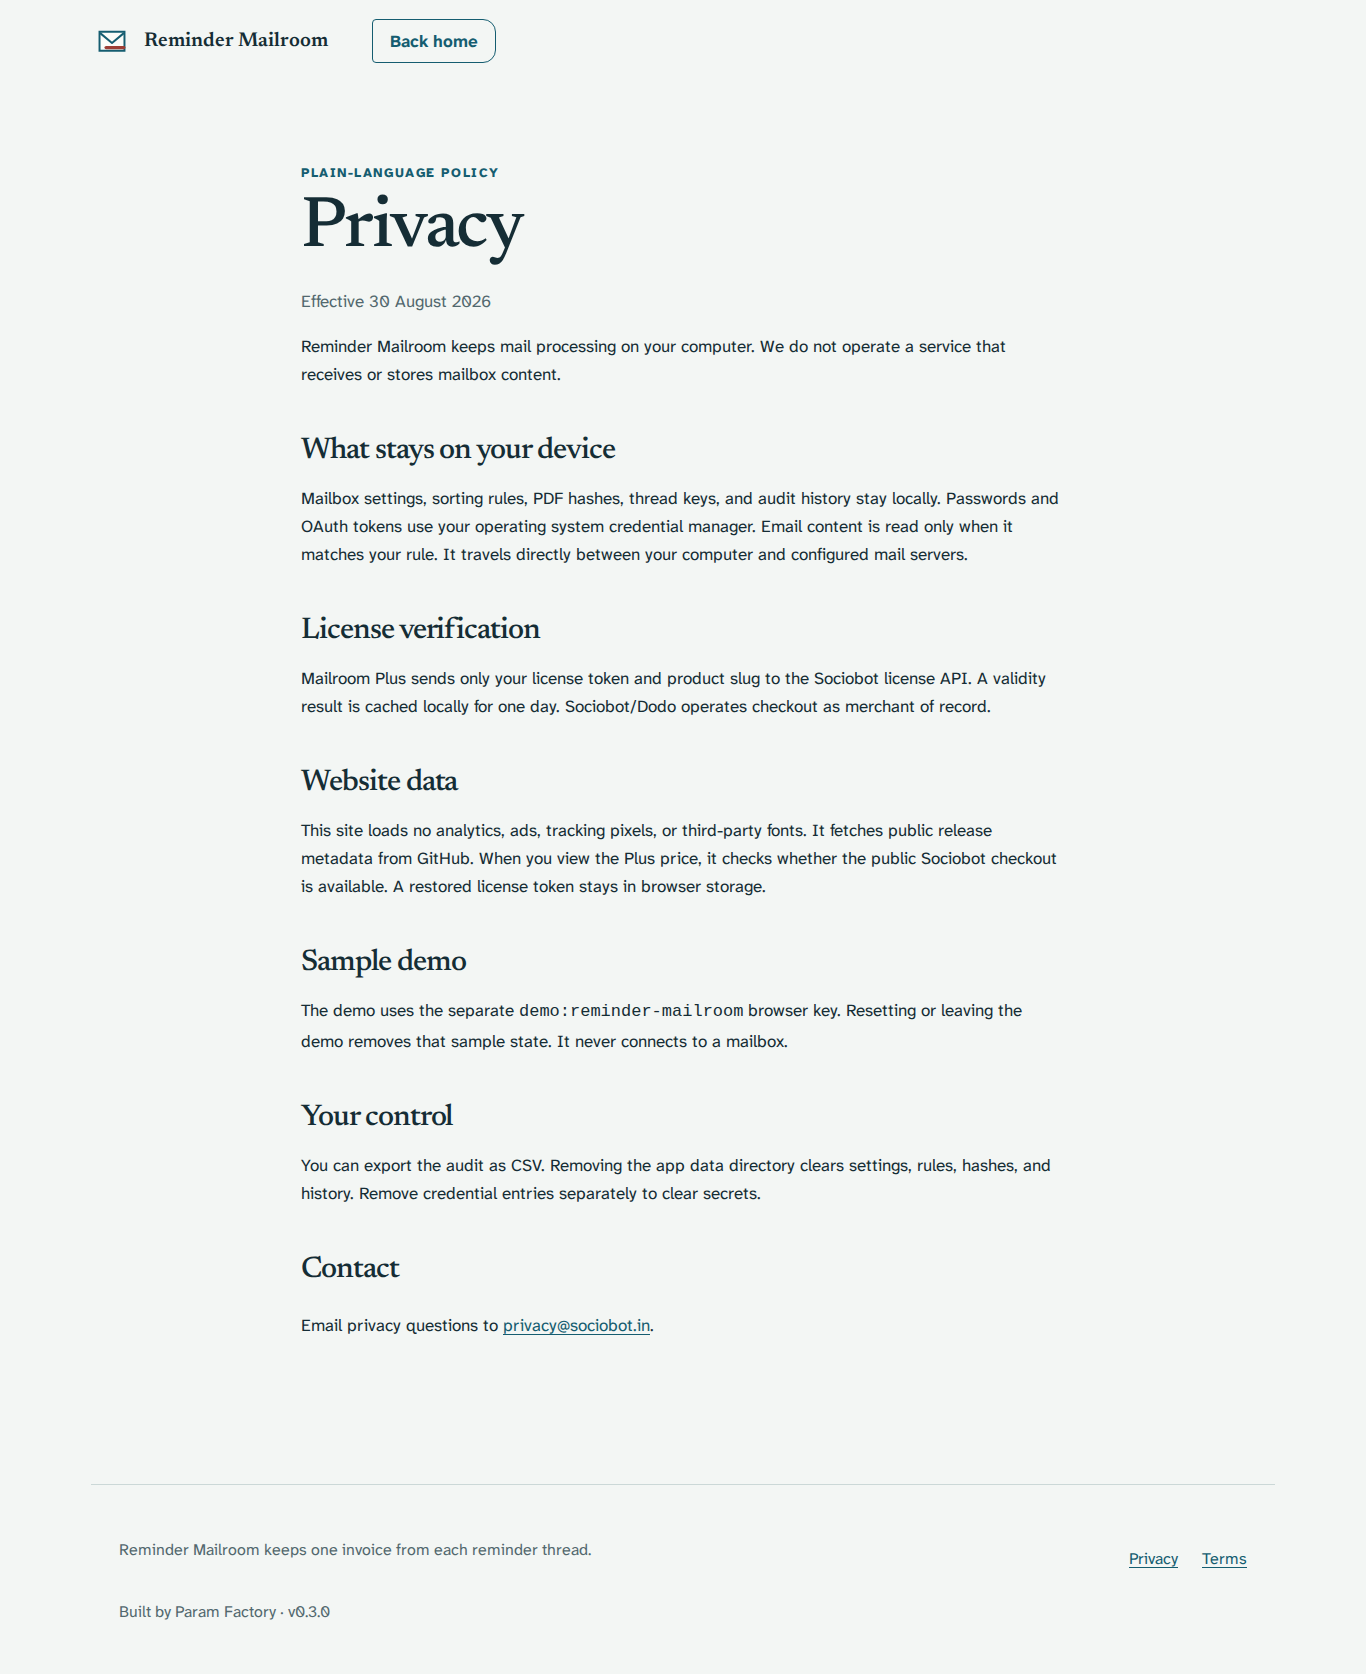
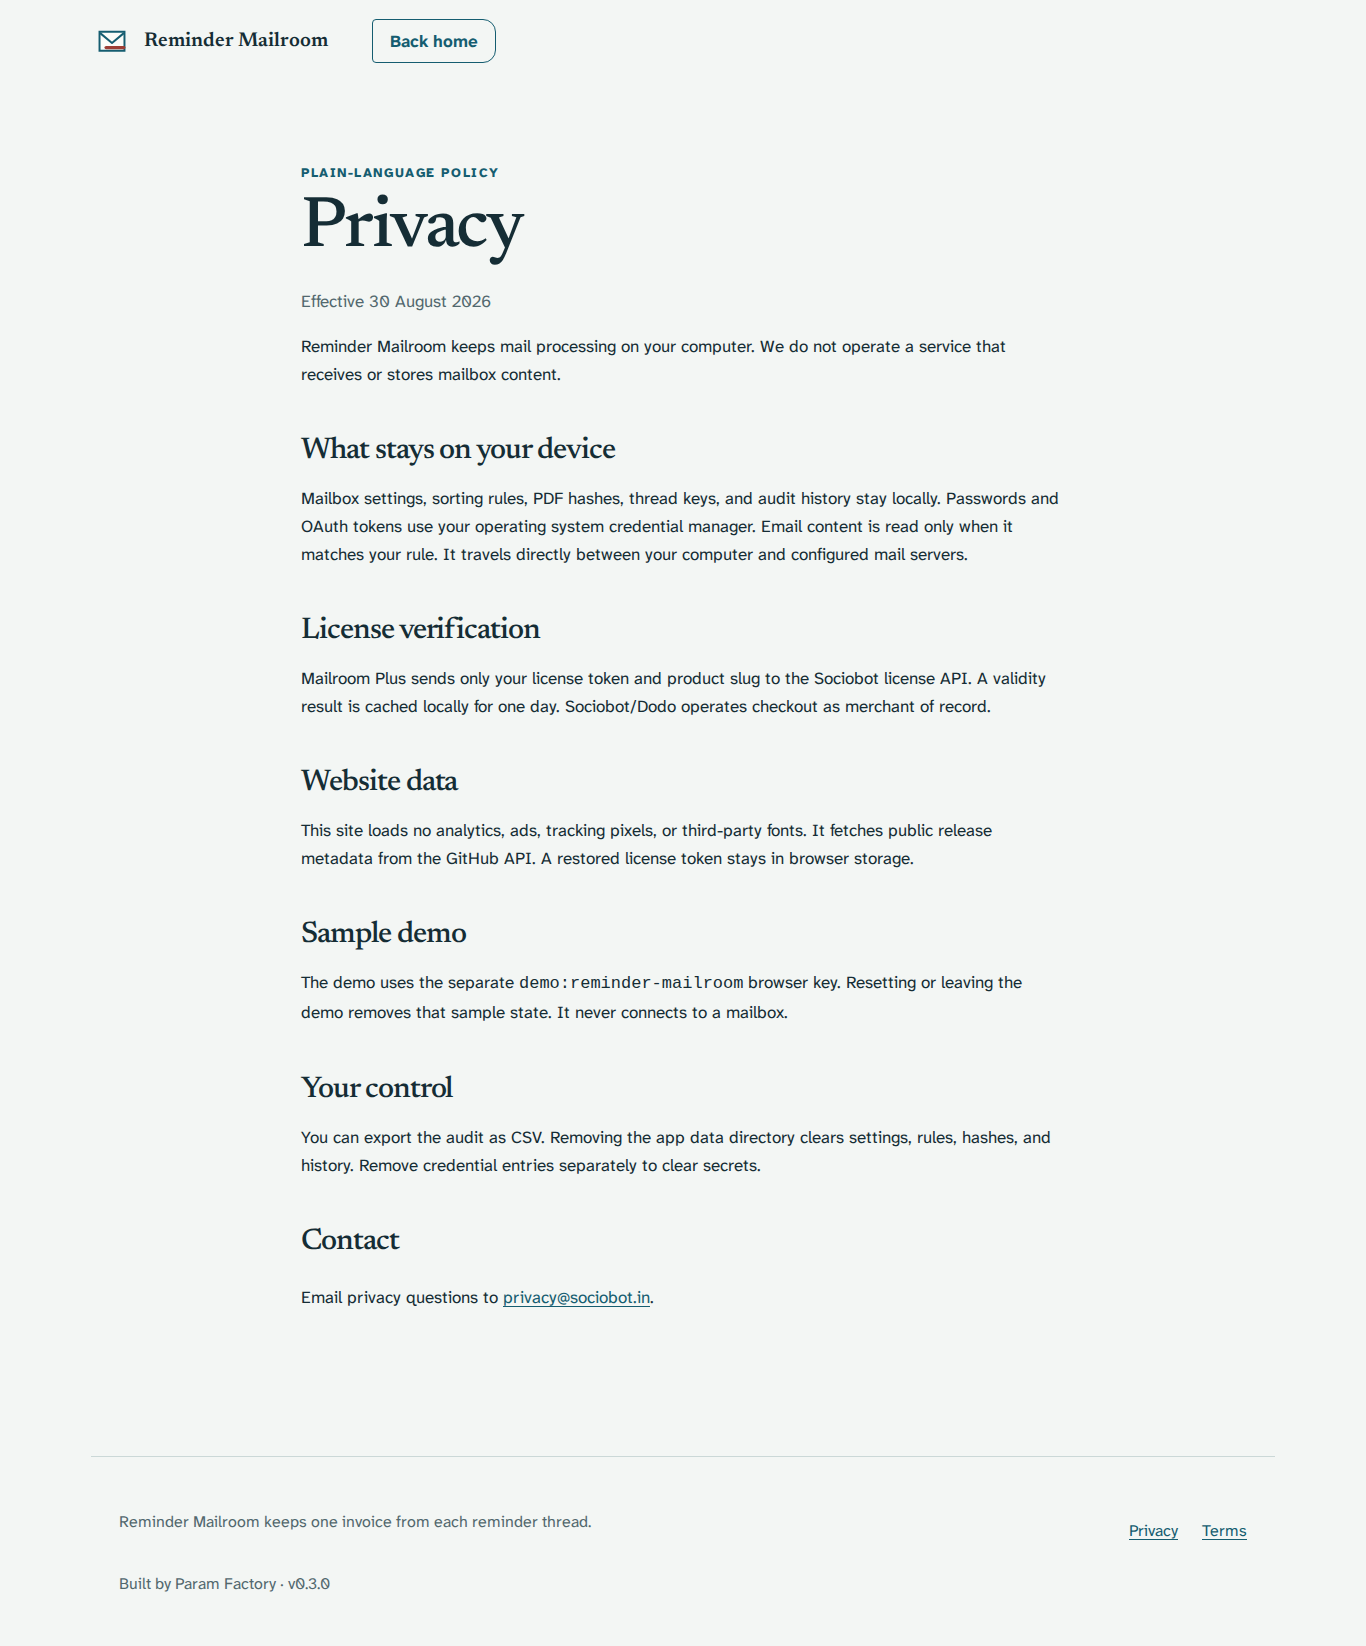
fix: keep unavailable checkout quiet

diff --git a/app/main.ts b/app/main.ts
@@ -1,6 +1,6 @@
 import "./styles.css";
 import { invoke } from "@tauri-apps/api/core";
-import { BILLING_BASE, CHECKOUT_URL, LICENSE_CACHE_KEY, LICENSE_KEY, PRODUCT_SLUG, cachedLicense, checkoutIsAvailable, consumeLicenseFromUrl } from "./core";
+import { BILLING_BASE, LICENSE_CACHE_KEY, LICENSE_KEY, PRODUCT_SLUG, cachedLicense, consumeLicenseFromUrl } from "./core";
 
 type Settings = {
   authMode: string; oauthProvider: string; oauthClientId: string;
@@ -20,7 +20,6 @@ let paid = false;
 let activeView = "setup";
 let lastFocused: HTMLElement | null = null;
 let scanTimer = 0;
-let checkoutProbeStarted = false;
 
 const icons = {
   setup: '<svg aria-hidden="true" viewBox="0 0 24 24" fill="none" stroke="currentColor" stroke-width="1.8"><path d="M4 7h16M7 4v6M4 17h16m-5-3v6"/></svg>',
@@ -103,7 +102,7 @@ function activityView() {
 }
 
 function licenseView() {
-  return `<section class="view" data-section="license" aria-labelledby="license-heading"><h2 id="license-heading">Buy Mailroom Plus once</h2><p class="section-intro">One rule, manual previews, archiving, and audit export are free. Plus is for busy mailrooms that need more rules and automatic checks while the app is open.</p><div class="license-panel"><span class="badge" id="license-badge">Free</span><p class="price">$29 <small>one-time</small></p><ul class="feature-list"><li>Unlimited explicit sorting rules</li><li>Automatic checks every 15–240 minutes while open</li><li>Same local processing and full data export</li></ul><span class="button unavailable" id="buy-link" aria-disabled="true">Checkout is being enabled</span><p class="checkout-note">Free downloads work now. A purchase link appears here when secure checkout is ready.</p><div class="license-restore"><div class="field"><label for="license-token">Have a license? Paste it here</label><input id="license-token" autocomplete="off" spellcheck="false"><span class="hint">The token is stored only on this device.</span></div><div class="actions"><button class="button secondary" id="restore-license">Verify license</button></div><p class="status-message" id="license-status" role="status"></p></div><p class="legal-note">Sociobot/Dodo handles existing licenses and refunds. A revoked license turns off paid features. <a href="https://reminder-mailroom.sociobot.in/privacy" target="_blank">Privacy</a> · <a href="https://reminder-mailroom.sociobot.in/terms" target="_blank">Terms</a></p></div></section>`;
+  return `<section class="view" data-section="license" aria-labelledby="license-heading"><h2 id="license-heading">Mailroom Plus pricing</h2><p class="section-intro">One rule, manual previews, archiving, and audit export are free. Plus is for busy mailrooms that need more rules and automatic checks while the app is open.</p><div class="license-panel"><span class="badge" id="license-badge">Free</span><p class="price">$29 <small>one-time</small></p><ul class="feature-list"><li>Unlimited explicit sorting rules</li><li>Automatic checks every 15–240 minutes while open</li><li>Same local processing and full data export</li></ul><span class="button unavailable" id="buy-link" aria-disabled="true">Checkout is being enabled</span><p class="checkout-note">Free downloads work now. New purchases resume after the product checkout is published.</p><div class="license-restore"><div class="field"><label for="license-token">Have a license? Paste it here</label><input id="license-token" autocomplete="off" spellcheck="false"><span class="hint">The token is stored only on this device.</span></div><div class="actions"><button class="button secondary" id="restore-license">Verify license</button></div><p class="status-message" id="license-status" role="status"></p></div><p class="legal-note">Sociobot/Dodo handles existing licenses and refunds. A revoked license turns off paid features. <a href="https://reminder-mailroom.sociobot.in/privacy" target="_blank">Privacy</a> · <a href="https://reminder-mailroom.sociobot.in/terms" target="_blank">Terms</a></p></div></section>`;
 }
 
 function field(id: string, label: string, placeholder: string, type: string, required: boolean, hint = "") {
@@ -213,7 +212,6 @@ function switchView(view: string) {
   const content: Record<string, [string,string]> = { setup: ["01 · Connect", "Connect the mailbox that sends invoices and the accounting address that should receive exactly one canonical copy."], rules: ["02 · Decide", "Describe only the invoice mail you expect. Every route stays visible and can be paused or removed."], activity: ["03 · Verify", "See the original saved, every duplicate stopped, and the reason for each decision."], license: ["Optional · Plus", "The free workflow stays useful. Upgrade once for more rules and automatic checks while Mailroom is open."] };
   $("#view-eyebrow").textContent = content[view][0]; $("#view-lede").textContent = content[view][1];
   $("#main").focus({ preventScroll: true });
-  if (view === "license") void loadCheckoutAvailability();
 }
 
 async function runScan(dryRun: boolean) {
@@ -246,27 +244,6 @@ function applyLicense(valid: boolean, reason: string) {
   else if (valid) setStatus("#license-status", "Mailroom Plus is active on this device.", false, true);
   else if (reason !== "none") setStatus("#license-status", "This license is no longer active. You can paste another token or buy a new license.", true);
   configureSchedule();
-}
-
-function replaceCheckoutAction(available: boolean) {
-  const current = document.querySelector<HTMLElement>("#buy-link");
-  if (!current) return;
-  if (available) {
-    current.outerHTML = `<a class="button" id="buy-link" href="${CHECKOUT_URL}" target="_blank" rel="noreferrer">Buy Mailroom Plus (opens secure checkout)</a>`;
-    return;
-  }
-  current.outerHTML = '<span class="button unavailable" id="buy-link" aria-disabled="true">Checkout is being enabled</span>';
-}
-
-async function loadCheckoutAvailability() {
-  if (paid || checkoutProbeStarted) return;
-  checkoutProbeStarted = true;
-  try {
-    const response = await fetch(CHECKOUT_URL, { credentials: "omit", redirect: "manual" });
-    replaceCheckoutAction(checkoutIsAvailable(response));
-  } catch {
-    replaceCheckoutAction(false);
-  }
 }
 
 function configureSchedule() {

diff --git a/tests/e2e/site.spec.ts b/tests/e2e/site.spec.ts
@@ -220,29 +220,23 @@ test("@claim:oauth-provider-setup exposes Google and Microsoft OAuth connection"
   expect(oauthCall?.args.settings).toMatchObject({ authMode: "oauth", oauthProvider: "google", oauthClientId: "fixture-desktop-client-id", imapHost: "imap.gmail.com", smtpHost: "smtp.gmail.com" });
 });
 
-test("@claim:paid-tier-copy routes an available $29 Plus purchase to scoped checkout", async ({ page }) => {
+test("@claim:paid-tier-copy keeps a $29 Plus purchase from opening a known unavailable checkout", async ({ page }) => {
   const checkoutUrl = "https://api.sociobot.in/api/v1/products/reminder-mailroom/checkout";
-  await page.route(checkoutUrl, async (route) => {
-    if (route.request().isNavigationRequest()) {
-      await route.fulfill({ status: 204, body: "" });
-      return;
-    }
-    await route.fulfill({ status: 302, headers: { location: "https://checkout.example.test/hosted" } });
-  });
-  await page.goto("/?checkout-test=1");
+  const checkoutRequests: string[] = [];
+  page.on("request", (request) => { if (request.url() === checkoutUrl) checkoutRequests.push(request.url()); });
+  await page.goto("/");
   const paid = page.locator(".price-grid .paid");
   await expect(paid).toContainText("$29 one-time");
   await expect(paid).toContainText("Unlimited sorting rules");
-  await expect(paid.getByRole("link", { name: "Buy Mailroom Plus" })).toHaveAttribute("href", checkoutUrl);
+  await expect(paid.getByText("Checkout is being enabled")).toHaveAttribute("aria-disabled", "true");
+  await paid.getByText("Checkout is being enabled").click({ force: true });
+  await expect(page).toHaveURL(/\/$/);
   await page.goto("http://127.0.0.1:4174");
   await page.getByRole("button", { name: "Plus", exact: true }).click();
   await expect(page.locator(".license-panel")).toContainText("$29 one-time");
   await expect(page.locator(".license-panel")).toContainText("Unlimited explicit sorting rules");
-  await expect(page.getByRole("link", { name: "Buy Mailroom Plus (opens secure checkout)" })).toHaveAttribute("href", checkoutUrl);
-  await page.goto("/?checkout-test=1");
-  const checkoutNavigation = page.waitForRequest((request) => request.url() === checkoutUrl && request.isNavigationRequest());
-  await page.getByRole("link", { name: "Buy Mailroom Plus" }).click();
-  expect((await checkoutNavigation).method()).toBe("GET");
+  await expect(page.locator("#buy-link")).toHaveAttribute("aria-disabled", "true");
+  expect(checkoutRequests).toEqual([]);
 });
 
 test("@claim:paid-license-lifecycle verifies a license, enables paid controls, and locks them after revocation", async ({ page }) => {
@@ -295,15 +289,10 @@ test("@claim:website-request-privacy sends no tracking or visitor data", async (
     contentType: "application/json",
     body: JSON.stringify({ tag_name: "v0.3.0", assets: [] }),
   }));
-  await page.route("https://api.sociobot.in/api/v1/products/reminder-mailroom/checkout", (route) => route.fulfill({ status: 404, contentType: "application/json", body: JSON.stringify({ error: "enabled factory product", status: 404 }) }));
-  await page.goto("/?release-test=1&checkout-test=1");
-  await page.locator("#price").scrollIntoViewIfNeeded();
-  await expect(page.locator("#checkout-status")).toHaveText("Checkout is being enabled");
+  await page.goto("/?release-test=1");
+  await page.locator("#privacy").scrollIntoViewIfNeeded();
   const external = requests.map((request) => new URL(request)).filter((url) => url.origin !== "http://127.0.0.1:4173");
-  expect(external.map((url) => `${url.origin}${url.pathname}`)).toEqual([
-    "https://api.github.com/repos/B-Divyesh/sf-reminder-mailroom/releases/latest",
-    "https://api.sociobot.in/api/v1/products/reminder-mailroom/checkout",
-  ]);
+  expect(external.map((url) => `${url.origin}${url.pathname}`)).toEqual(["https://api.github.com/repos/B-Divyesh/sf-reminder-mailroom/releases/latest"]);
   expect(requests.some((request) => /analytics|doubleclick|segment|pixel/i.test(request))).toBe(false);
 });
 

diff --git a/site/site.ts b/site/site.ts
@@ -1,5 +1,5 @@
 import "./styles.css";
-import { BILLING_BASE, CHECKOUT_URL, LICENSE_CACHE_KEY, LICENSE_KEY, PRODUCT_SLUG, checkoutIsAvailable, consumeLicenseFromUrl } from "../app/core";
+import { BILLING_BASE, LICENSE_CACHE_KEY, LICENSE_KEY, PRODUCT_SLUG, consumeLicenseFromUrl } from "../app/core";
 
 type ReleaseAsset = { name: string; browser_download_url: string };
 type Release = { tag_name: string; assets: ReleaseAsset[] };
@@ -79,38 +79,6 @@ async function verify(token: string) {
   } catch { status.textContent = "The license service could not be reached. Downloads and free features still work."; }
 }
 
-function replaceCheckoutAction(available: boolean) {
-  const current = document.querySelector<HTMLElement>("#checkout-status");
-  if (!current) return;
-  if (available) {
-    current.outerHTML = `<a class="button" id="checkout-status" href="${CHECKOUT_URL}">Buy Mailroom Plus</a>`;
-    return;
-  }
-  current.outerHTML = '<span class="button unavailable" id="checkout-status" aria-disabled="true">Checkout is being enabled</span>';
-}
-
-async function loadCheckoutAvailability() {
-  try {
-    const response = await fetch(CHECKOUT_URL, { credentials: "omit", redirect: "manual" });
-    replaceCheckoutAction(checkoutIsAvailable(response));
-  } catch {
-    replaceCheckoutAction(false);
-  }
-}
-
-function observeCheckoutAvailability() {
-  const price = document.querySelector("#price");
-  if (!price) return;
-  const params = new URL(location.href).searchParams;
-  if (params.has("checkout-test")) { void loadCheckoutAvailability(); return; }
-  const observer = new IntersectionObserver((entries) => {
-    if (!entries.some((entry) => entry.isIntersecting)) return;
-    observer.disconnect();
-    void loadCheckoutAvailability();
-  }, { rootMargin: "160px" });
-  observer.observe(price);
-}
-
 document.querySelectorAll<HTMLButtonElement>("[data-copy]").forEach((button) => button.addEventListener("click", async () => {
   await navigator.clipboard.writeText(button.dataset.copy!);
   const old = button.textContent;
@@ -129,5 +97,4 @@ const incoming = consumeLicenseFromUrl(url, localStorage);
 if (incoming) { history.replaceState({}, "", url); document.querySelector<HTMLInputElement>("#site-license")!.value = incoming; void verify(incoming); }
 if (location.hostname === "reminder-mailroom.sociobot.in" || url.searchParams.has("release-test")) void loadDownloads();
 else document.querySelector<HTMLElement>("#release-note")!.textContent = "Preview build · release assets are linked on GitHub";
-observeCheckoutAvailability();
 if ("serviceWorker" in navigator) window.addEventListener("load", () => void navigator.serviceWorker.register("/sw.js"));

diff --git a/.factory/evidence/repair-5/local/privacy/index.html b/.factory/evidence/repair-5/local/privacy/index.html
@@ -18,7 +18,7 @@
       <p>Reminder Mailroom keeps mail processing on your computer. We do not operate a service that receives or stores mailbox content.</p>
       <h2>What stays on your device</h2><p>Mailbox settings, sorting rules, PDF hashes, thread keys, and audit history stay locally. Passwords and OAuth tokens use your operating system credential manager. Email content is read only when it matches your rule. It travels directly between your computer and configured mail servers.</p>
       <h2>License verification</h2><p>Mailroom Plus sends only your license token and product slug to the Sociobot license API. A validity result is cached locally for one day. Sociobot/Dodo operates checkout as merchant of record.</p>
-      <h2>Website data</h2><p>This site loads no analytics, ads, tracking pixels, or third-party fonts. It fetches public release metadata from GitHub. When you view the Plus price, it checks whether the public Sociobot checkout is available. A restored license token stays in browser storage.</p>
+      <h2>Website data</h2><p>This site loads no analytics, ads, tracking pixels, or third-party fonts. It fetches public release metadata from the GitHub API. A restored license token stays in browser storage.</p>
       <h2>Sample demo</h2><p>The demo uses the separate <code>demo:reminder-mailroom</code> browser key. Resetting or leaving the demo removes that sample state. It never connects to a mailbox.</p>
       <h2>Your control</h2><p>You can export the audit as CSV. Removing the app data directory clears settings, rules, hashes, and history. Remove credential entries separately to clear secrets.</p>
       <h2>Contact</h2><p>Email privacy questions to <a href="mailto:privacy@sociobot.in">privacy@sociobot.in</a>.</p>

diff --git a/site/privacy/index.html b/site/privacy/index.html
@@ -17,7 +17,7 @@
       <p>Reminder Mailroom keeps mail processing on your computer. We do not operate a service that receives or stores mailbox content.</p>
       <h2>What stays on your device</h2><p>Mailbox settings, sorting rules, PDF hashes, thread keys, and audit history stay locally. Passwords and OAuth tokens use your operating system credential manager. Email content is read only when it matches your rule. It travels directly between your computer and configured mail servers.</p>
       <h2>License verification</h2><p>Mailroom Plus sends only your license token and product slug to the Sociobot license API. A validity result is cached locally for one day. Sociobot/Dodo operates checkout as merchant of record.</p>
-      <h2>Website data</h2><p>This site loads no analytics, ads, tracking pixels, or third-party fonts. It fetches public release metadata from GitHub. When you view the Plus price, it checks whether the public Sociobot checkout is available. A restored license token stays in browser storage.</p>
+      <h2>Website data</h2><p>This site loads no analytics, ads, tracking pixels, or third-party fonts. It fetches public release metadata from the GitHub API. A restored license token stays in browser storage.</p>
       <h2>Sample demo</h2><p>The demo uses the separate <code>demo:reminder-mailroom</code> browser key. Resetting or leaving the demo removes that sample state. It never connects to a mailbox.</p>
       <h2>Your control</h2><p>You can export the audit as CSV. Removing the app data directory clears settings, rules, hashes, and history. Remove credential entries separately to clear secrets.</p>
       <h2>Contact</h2><p>Email privacy questions to <a href="mailto:privacy@sociobot.in">privacy@sociobot.in</a>.</p>

diff --git a/app/core.ts b/app/core.ts
@@ -1,6 +1,5 @@
 export const PRODUCT_SLUG = "reminder-mailroom";
 export const BILLING_BASE = "https://api.sociobot.in/api/v1";
-export const CHECKOUT_URL = `${BILLING_BASE}/products/${PRODUCT_SLUG}/checkout`;
 export const LICENSE_KEY = `sb_license:${PRODUCT_SLUG}`;
 export const LICENSE_CACHE_KEY = `${LICENSE_KEY}:verdict`;
 export const DAY_MS = 86_400_000;
@@ -10,16 +9,6 @@ export type LicenseVerdict = {
   reason: "ok" | "invalid" | "expired" | "revoked" | "wrong_product" | "offline";
   checkedAt: number;
 };
-
-/**
- * Checkout intentionally redirects to the hosted merchant page. In a browser
- * manual redirects are opaque, while an unregistered product is a readable
- * 404. Treat only a real client error as unavailable so the purchase link can
- * appear without redeploying when the billing operator enables this product.
- */
-export function checkoutIsAvailable(response: Pick<Response, "status" | "type">): boolean {
-  return response.type === "opaqueredirect" || (response.status >= 200 && response.status < 400);
-}
 
 export function normalizeSubject(subject: string): string {
   return subject

diff --git a/.factory/evidence/repair-5/local/landing/index.html b/.factory/evidence/repair-5/local/landing/index.html
@@ -18,8 +18,8 @@
     <meta name="twitter:description" content="Archive one invoice from each reminder thread without changing how you chase payments." />
     <meta name="twitter:image" content="https://reminder-mailroom.sociobot.in/social-card.webp" />
     <title>Reminder Mailroom — archive each invoice once</title>
-    <script type="module" crossorigin src="/assets/main-ycOQnhig.js"></script>
-    <link rel="modulepreload" crossorigin href="/assets/core-B0coI97h.js">
+    <script type="module" crossorigin src="/assets/main-Bc64ZVx8.js"></script>
+    <link rel="modulepreload" crossorigin href="/assets/core-CQ_3PuA9.js">
     <link rel="stylesheet" crossorigin href="/assets/core-CA3aV0Ye.css">
   </head>
   <body>

diff --git a/.factory/evidence/repair-5/local/demo/index.html b/.factory/evidence/repair-5/local/demo/index.html
@@ -18,8 +18,8 @@
     <meta name="twitter:description" content="Try Reminder Mailroom with an isolated sample invoice thread." />
     <meta name="twitter:image" content="https://reminder-mailroom.sociobot.in/social-card.webp" />
     <title>Demo — Reminder Mailroom</title>
-    <script type="module" crossorigin src="/assets/demo-BLrPOeq0.js"></script>
-    <link rel="modulepreload" crossorigin href="/assets/core-B0coI97h.js">
+    <script type="module" crossorigin src="/assets/demo-BHrZq0uk.js"></script>
+    <link rel="modulepreload" crossorigin href="/assets/core-CQ_3PuA9.js">
     <link rel="stylesheet" crossorigin href="/assets/core-CA3aV0Ye.css">
   </head>
   <body class="demo-page">

diff --git a/README.md b/README.md
@@ -65,7 +65,7 @@ On Ubuntu/Debian, install `libwebkit2gtk-4.1-dev`, `libappindicator3-dev`, `libr
 
 ## Purchase
 
-The free edition includes one rule, manual processing, and audit CSV export. Mailroom Plus costs US $29 once. It adds unlimited rules and checks while the app is open. The site and app show the official purchase link only after the scoped Sociobot checkout accepts visitors. Existing license verification uses the Sociobot billing API.
+The free edition includes one rule, manual processing, and audit CSV export. Mailroom Plus costs US $29 once. It adds unlimited rules and checks while the app is open. New checkout remains operator-gated until the product route is enabled. Existing license verification uses the Sociobot billing API.
 
 ## Repository map
 
